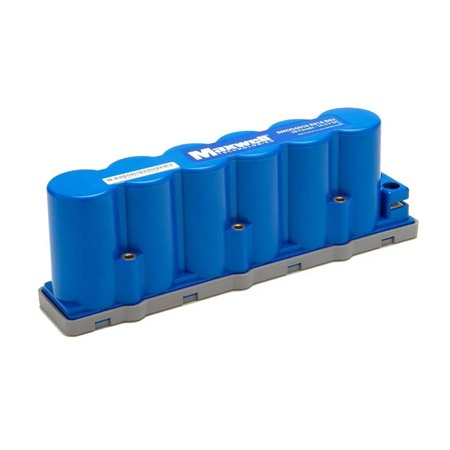
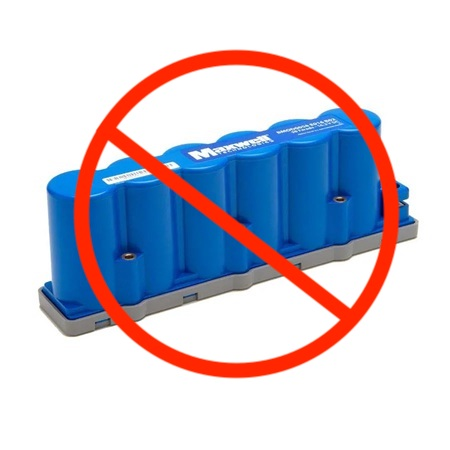
update

Changed region(s): [[0.1556, 0.0933, 0.9022, 0.84]]

diff --git a/_posts/2025-10-18-dont-use-supercap.md b/_posts/2025-10-18-dont-use-supercap.md
@@ -6,56 +6,75 @@ categories: Auto
 ---
 
 
-如果你正在猶豫，想改善車輛的電系性能，你可能面臨一個抉擇：是該花錢加裝「超級電容」，還是直接升級「鋰鐵電池 (LiFePO₄)」？
+如果你正在猶豫，想改善車輛的電系性能，你可能面臨一個抉擇：
 
-直接告訴你答案：選擇超級電容，不僅是昂貴的彎路，甚至是帶來反效果的「負升級」。
+👉 是該花錢加裝「超級電容」？  
+👉 還是直接升級「鋰鐵電池 (LiFePO₄)」？
+
+**直接告訴你答案：選擇超級電容，不光是昂貴的彎路，甚至是帶來反效果的「負升級」。**
 
 ![超級電容模組](/images/supercap_module.jpg#pic_center)
 
----
+  
+## ⚡ 原因一：鋰鐵電池本身就是性能猛獸
 
-## 原因一：鋰鐵電池本身就是性能猛獸
+超級電容的設計初衷，是為了彌補傳統鉛酸電池「[內阻高、反應慢](/2025/lithium-vs-lead-analysis.html)」的缺陷，就像在慢速硬碟前加一個快取。
 
-超級電容的出現，是為了彌補傳統鉛酸電池[**內阻高、反應慢**](/2025/lithium-vs-lead-analysis.html)的先天缺陷，就像在慢速硬碟前加一個快取。  
 但鋰鐵電池本身就具備：
-- **極低內阻**  
-- **高放電倍率 (C-rate)**  
 
-它的瞬間放電能力，已經遠超超級電容能提供的「輔助」。
----
+-   極低內阻
+-   高放電倍率 (C-rate)
 
-## 原因二：容量小得可憐
-市售車用超級電容容量極小：  
+👉 它的瞬間放電能力，**已經遠超超級電容能提供的「輔助」**。
+
+
+## 📉 原因二：容量小得可憐
+
+市售車用超級電容容量極小，舉例：
+
 - **15V / 86F ≈ 0.36Ah**  
 - **15V / 20F ≈ 0.08Ah**  
 
-這些數字連一顆普通 18650 電池都比不上。對於動輒數十 Ah 的汽車鋰鐵電池來說，完全是九牛一毛。瞬間放完電後，它還得靠電池或發電機回充，反而成了小負擔。  
+這些數字連一顆普通 18650 電池都比不上。  
+對於動輒數十 Ah 的汽車鋰鐵電池來說，**完全是九牛一毛**。  
+瞬間放完電後，超級電容還得靠電池或發電機回充，反而成了負擔。
 
----
 
-## 原因三：鋰鐵電池已經平價化
-過去鋰鐵電池昂貴，才讓超級電容有市場空間。如今價格已大幅下降：  
-- **汽車用品牌 100Ah 鋰鐵電池**：[約 1.2 萬元](https://www.facebook.com/share/1HUfunrZu2/)
-- **機車用品牌 5.5Ah 鋰鐵電池**：約 2500 元  
+## 💰 原因三：鋰鐵電池已經平價化
 
-既然鋰鐵電池價格親民，為何還要花上萬元買一個不到 0.4Ah、還會「偷吃電」的超級電容？  
+過去鋰鐵電池昂貴，才讓超級電容有市場空間。如今價格已大幅下降：
 
----
+-   汽車用品牌 100Ah 鋰鐵電池：約  [NT$12,000](https://www.facebook.com/share/1HUfunrZu2/)
+-   機車用品牌 5.5Ah 鋰鐵電池：約 NT$2,500
 
-## 原因四：別被「瞬間 CCA 爆升」騙了
-賣家最愛展示的 CCA 飆升，其實只是測試儀器被低內阻「騙」出來的數字，正如鈦酸鋰賣家的CCA誤導，詳見：[為何測量鋰電池的 CCA 毫無意義](/2025/about-cca.html)。真正的啟動能力，看的是 **持續穩定的大電流輸出**，這正是鋰鐵電池的強項，而不是容量只有零點幾Ah的超級電容能比的。  
+👉 既然鋰鐵電池價格親民，**為何還要花上萬元買一個不到 0.4Ah、還會「偷吃電」的超級電容？**
 
----
 
-## 原因五：外掛帶來額外風險
+## 🧪 原因四：別被「瞬間 CCA 爆升」騙了
 
-- **安裝風險**：額外走線可能磨損短路，碰撞時甚至變成拋射物。  
-- **產品風險**：曾有超級電容故障導致短路高溫，甚至釀成火燒車。  
+賣家最愛展示的 CCA 飆升，其實只是測試儀器被[低內阻「騙」出來的數字](/2025/about-cca.html)。
 
-相比之下，鋰鐵電池是「一換一」的原廠位升級，整合度高、結構穩定，即便故障也僅是膨脹，幾乎不會起火。
+真正的啟動能力，**看的是持續穩定的大電流輸出**，這正是鋰鐵電池的強項，而不是容量只有零點幾 Ah 的超級電容能比的。
 
----  
 
-## 結論：把錢花在刀口上
-超級電容在工業應用有其價值，但在車輛電系升級上，尤其在鋰鐵電池成熟又平價的今天，它的效益有限、風險卻更高。與其分散預算在效果有限的外掛產品，不如直接投資一顆品質優良、容量充足的鋰鐵電池。這才是最直接、最有效、最經濟的升級之道。  
+## 🔥 原因五：外掛帶來額外風險
 
+-   **安裝風險**：額外走線可能磨損短路，碰撞時甚至變成拋射物
+-   **產品風險**：曾有超級電容故障導致短路高溫，甚至釀成火燒車
+
+相比之下，鋰鐵電池是「一換一」的原廠位升級：
+
+-   整合度高
+-   結構穩定
+-   即便故障也僅是膨脹，幾乎不會起火
+
+
+## ✅ 結論：把錢花在刀口上
+
+超級電容在工業應用有其價值，但在車輛電系升級上，尤其在鋰鐵電池成熟又平價的今天，超級電容對汽車來說：
+
+-   效益有限
+-   風險更高
+
+👉 預算要花在效果有限的外掛產品，不如直接投資一顆品質優良、容量充足的鋰鐵電池。  
+這才是**最直接、最有效、最經濟的升級之道**。
